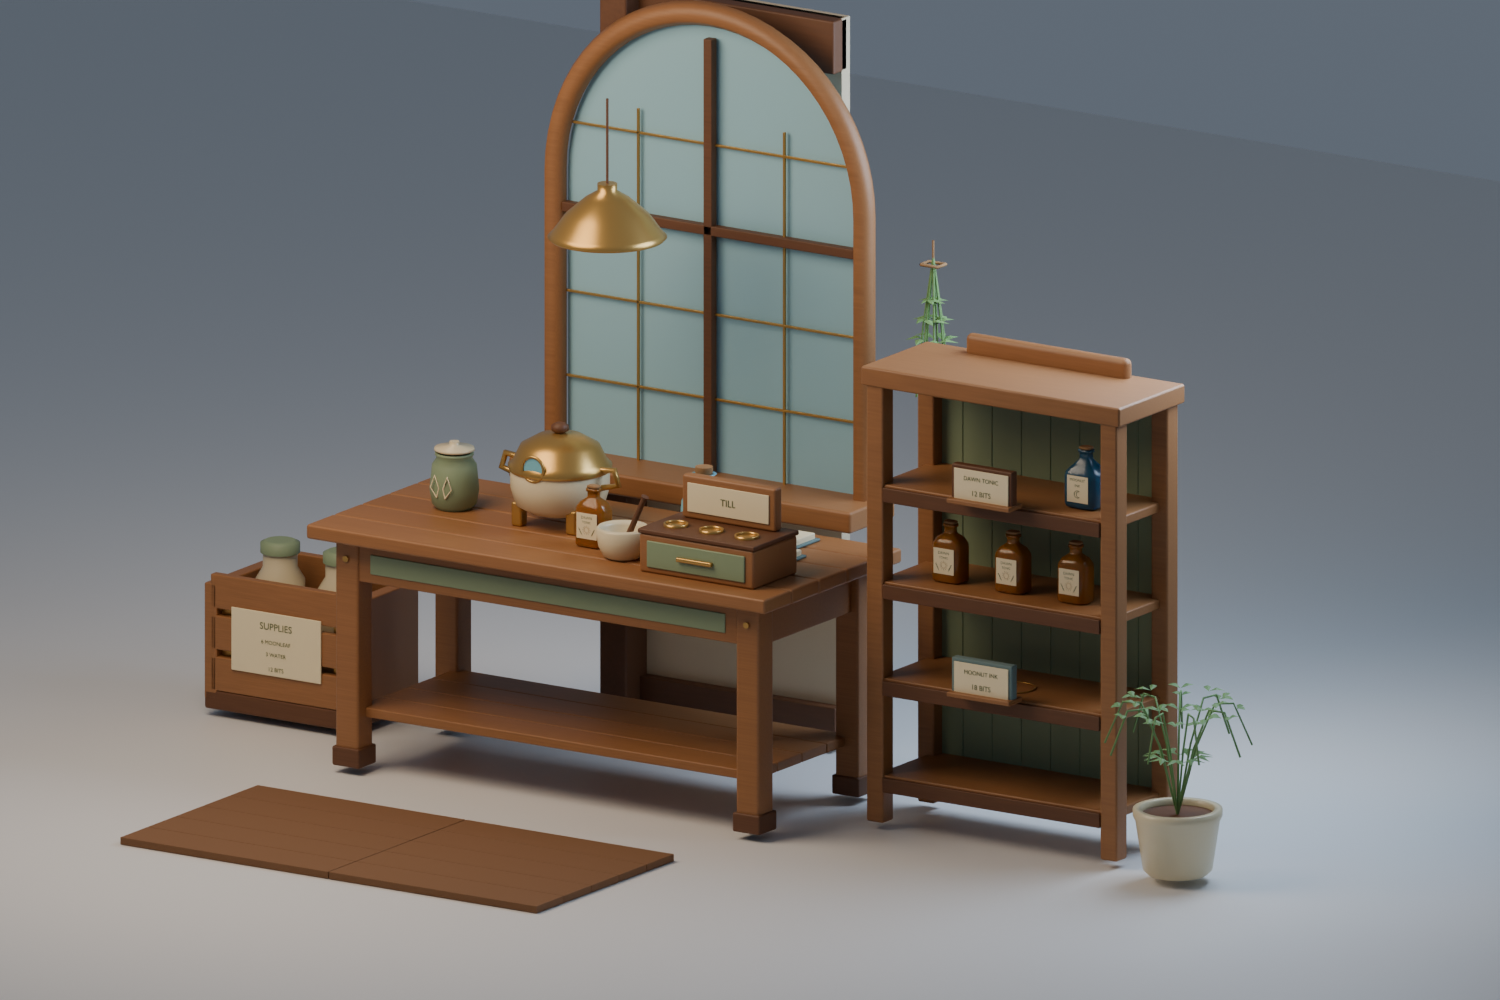
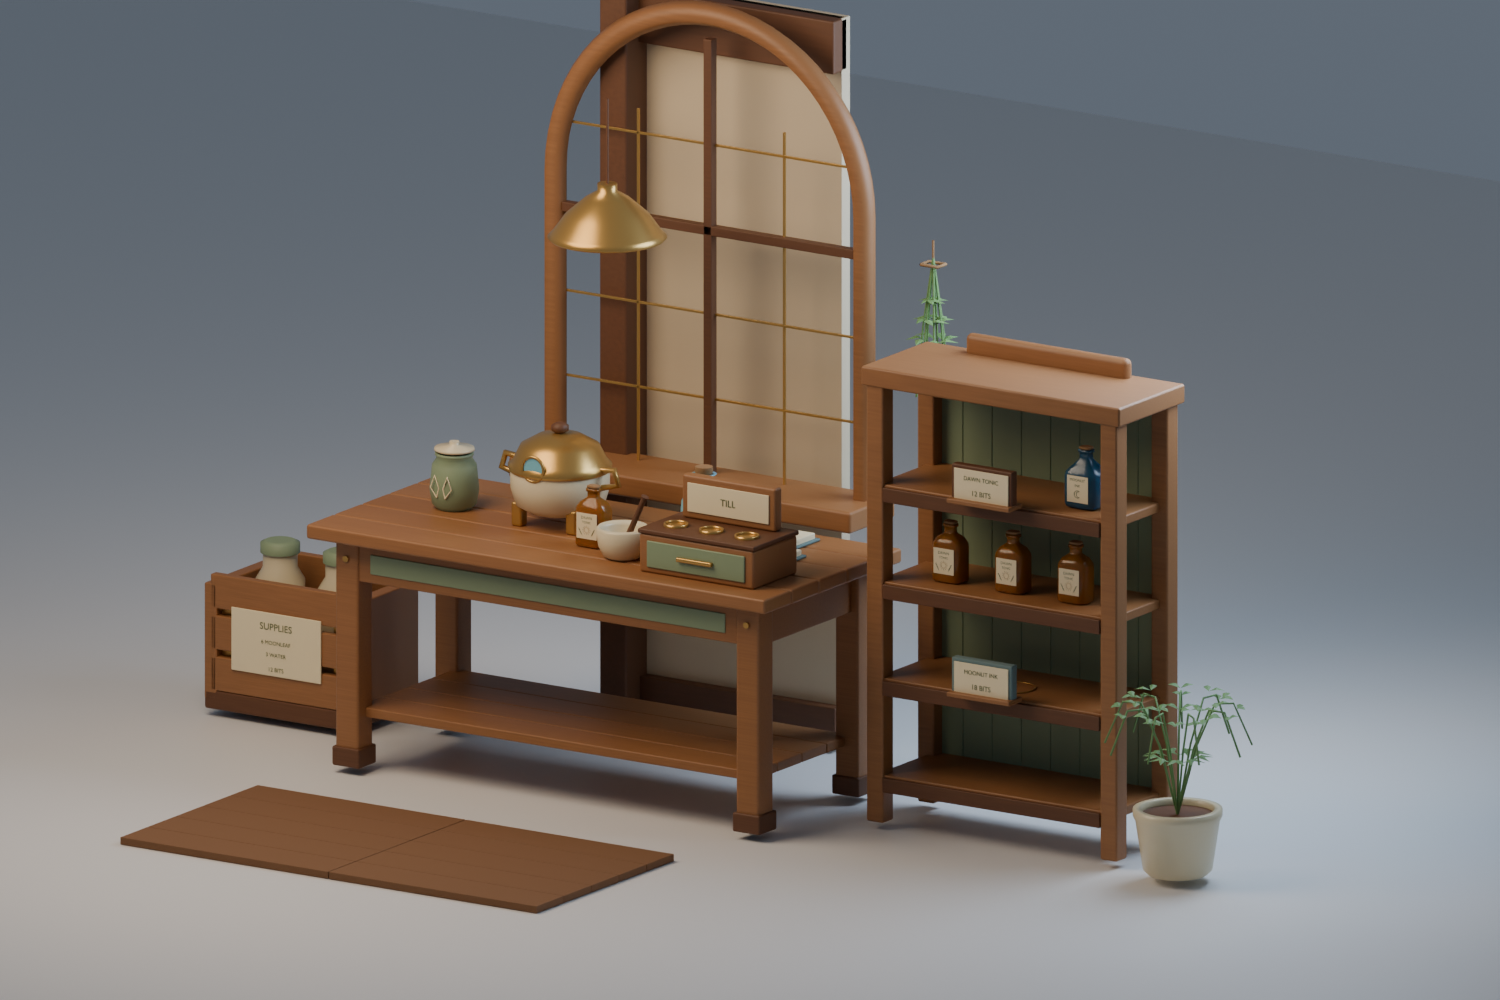
Model checkout coins and counter with open window and garden kit

Changed region(s): [[0.368, 0.0, 0.5827, 0.496]]

diff --git a/unreal/FantasyShopkeeper/Tools/model_shop_corner.py b/unreal/FantasyShopkeeper/Tools/model_shop_corner.py
@@ -36,7 +36,11 @@ PALETTE = {
     "LampGlow": ((1, 0.65, 0.2, 1), 0.3, 0),
     "WarmPlaster": ((0.63, 0.52, 0.36, 1), 0.92, 0),
     "FloorWood": ((0.22, 0.105, 0.045, 1), 0.76, 0),
-    "WindowGlow": ((0.32, 0.57, 0.68, 1), 0.35, 0),
+    "WindowGlass": ((0.78, 0.9, 0.94, 1), 0.1, 0),
+    "Copper": ((0.62, 0.25, 0.09, 1), 0.3, 0.8),
+    "Silver": ((0.62, 0.66, 0.7, 1), 0.25, 0.85),
+    "Leather": ((0.23, 0.075, 0.025, 1), 0.8, 0),
+    "GardenGrass": ((0.16, 0.26, 0.075, 1), 0.95, 0),
     "BookCloth": ((0.15, 0.23, 0.23, 1), 0.85, 0),
     "InkGlass": ((0.045, 0.19, 0.32, 1), 0.2, 0),
     "InkLiquid": ((0.025, 0.26, 0.58, 1), 0.26, 0),
@@ -388,8 +392,7 @@ wall_panel = export_asset("SM_PlasterWallPanel", parts, [((0, 0, 150), (100, 8, 
 parts = [box("TimberUpright", (0, 0, 150), (13, 16, 300), "DarkWood", 1.1)]
 wall_post = export_asset("SM_TimberPost", parts, [((0, 0, 150), (13, 16, 300))])
 
-# Arched, leaded glazing is a cool luminous backdrop for the warm workbench.
-# This kit supplies a window surround. Exterior scenery can be authored later.
+# Separate glazing and an open wall module allow real exterior views.
 arch_points = [(70 * math.cos(i * math.pi / 32), 0, 120 + 70 * math.sin(i * math.pi / 32)) for i in range(33)]
 outline = [(-70, 0, 0), (70, 0, 0)] + arch_points
 mesh = bpy.data.meshes.new("ArchedPane")
@@ -397,8 +400,9 @@ mesh.from_pydata(outline, [], [tuple(range(len(outline)))])
 mesh.update()
 pane = bpy.data.objects.new("CoolWindowPane", mesh)
 scene.collection.objects.link(pane)
-pane.data.materials.append(materials["WindowGlow"])
-parts = [pane, line("CarvedArch", [(-74, -3, 0), (-74, -3, 120)]
+pane.data.materials.append(materials["WindowGlass"])
+window_glass = export_asset("SM_WindowGlass", [pane], [((0, 0, 90), (140, 1, 180))])
+parts = [line("CarvedArch", [(-74, -3, 0), (-74, -3, 120)]
                   + [(74 * math.cos(math.pi - i * math.pi / 32), -3, 120 + 74 * math.sin(math.pi - i * math.pi / 32)) for i in range(33)]
                   + [(74, -3, 0)], 5, "HoneyWood"),
          box("WindowSill", (0, -9, 0), (164, 33, 9), "HoneyWood", 1.3),
@@ -499,7 +503,71 @@ door = export_asset("SM_ShopDoorSurround", parts, [((-104, 0, 100), (12, 20, 200
 stock_ring = export_asset("SM_StockMarkerRing", [line("StockPositionRing",
     [(9 * math.cos(i * math.tau / 48), 9 * math.sin(i * math.tau / 48), 0.3) for i in range(49)], 0.3, "Brass")], [])
 
+
+# A two-metre wall module with a true arched opening from z100 to z290.
+parts = [box("WindowParapet", (0, 50, 50), (200, 100, 100), "WarmPlaster", 0),
+         box("WindowPierLeft", (-85, 50, 200), (30, 100, 200), "WarmPlaster", 0),
+         box("WindowPierRight", (85, 50, 200), (30, 100, 200), "WarmPlaster", 0)]
+hulls = [((0, 50, 50), (200, 100, 100)), ((-85, 50, 200), (30, 100, 200)), ((85, 50, 200), (30, 100, 200))]
+# Narrow convex strips follow the arch and keep the opening clear in collision.
+for index in range(28):
+    x = -70 + (index + 0.5) * 5
+    bottom = 220 + math.sqrt(max(0, 70 ** 2 - x ** 2))
+    parts.append(box("ArchSpandrel", (x, 50, (bottom + 300) / 2), (5.03, 100, 300 - bottom), "WarmPlaster", 0))
+    hulls.append(((x, 50, (bottom + 300) / 2), (5, 100, 300 - bottom)))
+parts.append(box("WindowWallSkirting", (0, -2, 9), (200, 5, 18), "DarkWood", 0.5))
+window_wall = export_asset("SM_WindowWall", parts, hulls)
+
+# The entire checkout table is one authored mesh. Native controls sit on its top.
+parts = [box("CounterTop", (0, 0, 96), (170, 100, 8), "HoneyWood", 1.5),
+         box("CounterFront", (0, 43, 48), (162, 8, 88), "SagePaint", 1),
+         box("CounterShelf", (0, 0, 20), (158, 88, 5), "DarkWood", 0.8),
+         box("TicketFrame", (0, 42, 138), (146, 5, 43), "DarkWood", 1),
+         box("TicketPaper", (0, 38.8, 138), (140, 0.6, 38), "CreamLabel", 0.4)]
+for x in (-76, 76):
+    for y in (-41, 41):
+        parts.append(box("CounterLeg", (x, y, 47), (10, 10, 94), "DarkWood", 1))
+for x in (2, 21, 39, 58):
+    parts.append(box("ChangeTrayDivider", (x, -8, 102), (1.2, 30, 4), "Brass", 0.3))
+for y in (-23, 7):
+    parts.append(box("ChangeTrayRim", (30, y, 102), (57, 1.2, 4), "Brass", 0.3))
+parts.append(box("KeypadBacking", (-22, -8, 100.7), (40, 49, 1.4), "DarkWood", 0.5))
+for y in (-24, 0, 24):
+    parts.append(lathe("CoinWell", [(10, 100), (10, 101), (8.5, 101)], "Brass", segments=32))
+    parts[-1].location.x = -65
+    parts[-1].location.y = y
+counter = export_asset("SM_CheckoutCounter", parts, [((0, 0, 50), (170, 100, 100)), ((0, 42, 138), (146, 5, 43))])
+key = export_asset("SM_TillKey", [box("PressedBrassKey", (0, 0, 0), (9, 9, 3), "Brass", 0.6)], [])
+coin_assets = []
+for denomination, radius, material in ((1, 2.1, "Copper"), (10, 2.5, "Silver"), (100, 2.9, "Brass")):
+    parts = [lathe("StampedCoin", [(radius - 0.1, 0), (radius, 0.12), (radius, 0.36), (radius - 0.1, 0.48)], material, segments=32),
+             line("CoinRim", [(radius * 0.82 * math.cos(i * math.tau / 32), radius * 0.82 * math.sin(i * math.tau / 32), 0.49) for i in range(33)], 0.06, material)]
+    stamp = text(str(denomination), 1.5, (0, -0.6, 0.52))
+    stamp.rotation_euler = (0, 0, 0)
+    stamp.data.materials.clear()
+    stamp.data.materials.append(materials[material])
+    parts.append(stamp)
+    coin_assets.append(export_asset(f"SM_Coin{denomination}", parts, [((0, 0, 0.25), (radius * 2, radius * 2, 0.5))]))
+parts = [lathe("OpenLeatherPouch", [(7, 0), (11, 2), (13, 9), (12, 16), (9, 21), (9.5, 24), (7.8, 24), (7.5, 21), (10.5, 16), (11.5, 9), (9.5, 3), (7, 2)], "Leather", segments=32),
+         line("PouchDrawstring", [(9.6 * math.cos(i * math.tau / 32), 9.6 * math.sin(i * math.tau / 32), 21) for i in range(33)], 0.45, "Cork"),
+         line("LoosePouchCord", [(9, -1, 21), (14, -6, 13), (13, -9, 10)], 0.45, "Cork")]
+pouch = export_asset("SM_CoinPouch", parts, [((0, 0, 12), (26, 26, 24))])
+# Simple original garden pieces make the view through the glazing legible.
+garden_ground = export_asset("SM_GardenGround", [box("GardenBed", (0, 0, -3), (900, 900, 6), "GardenGrass", 1)], [((0, 0, -3), (900, 900, 6))])
+parts = [box("GardenFenceRail", (0, 0, z), (300, 7, 9), "HoneyWood", 1) for z in (35, 75)]
+parts += [box("GardenFencePost", (x, 0, 52), (11, 11, 104), "DarkWood", 1) for x in (-140, 0, 140)]
+fence = export_asset("SM_GardenFence", parts, [((0, 0, 52), (300, 11, 104))])
+parts = [lathe("GardenTreeTrunk", [(15, 0), (10, 120), (5, 250)], "DarkWood", segments=10)]
+for index, (x, y, z, radius) in enumerate(((-35, 0, 220, 85), (40, 15, 260, 90), (0, -10, 320, 80))):
+    bpy.ops.mesh.primitive_ico_sphere_add(subdivisions=2, radius=radius, location=(x, y, z))
+    parts.append(finish(bpy.context.object, f"TreeCanopy{index}", "MoonleafGreen"))
+tree = export_asset("SM_GardenTree", parts, [((0, 0, 120), (25, 25, 240))])
+
 (OUTPUT / "manifest.json").write_text(json.dumps(dict(blender=bpy.app.version_string, units="cm", assets=assets, palette=PALETTE), indent=2))
+
+# Hide supplementary assets from the established brewing-corner studio shot.
+for asset in [window_glass, window_wall, counter, key, pouch, garden_ground, fence, tree, *coin_assets]:
+    asset.hide_render = True
 
 # Source scene includes a simple studio arrangement for visual review.
 bench.location = (-70, 0, 0)
